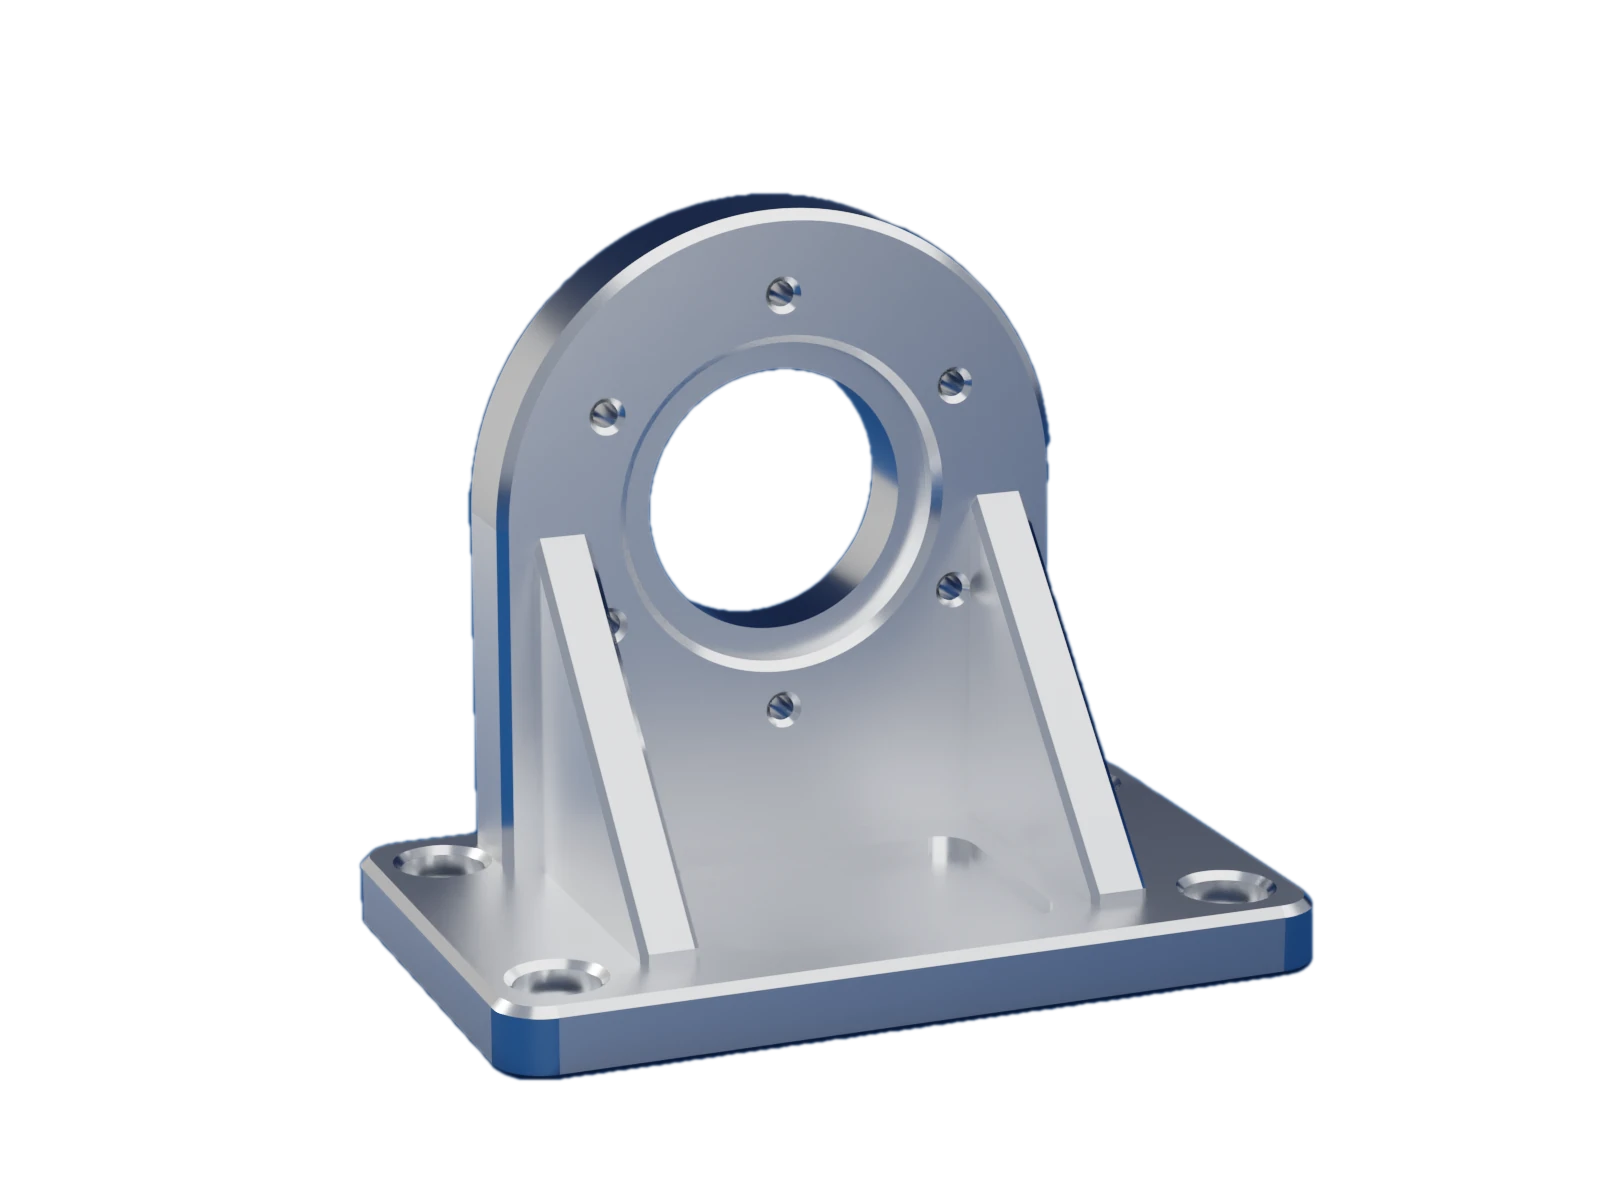
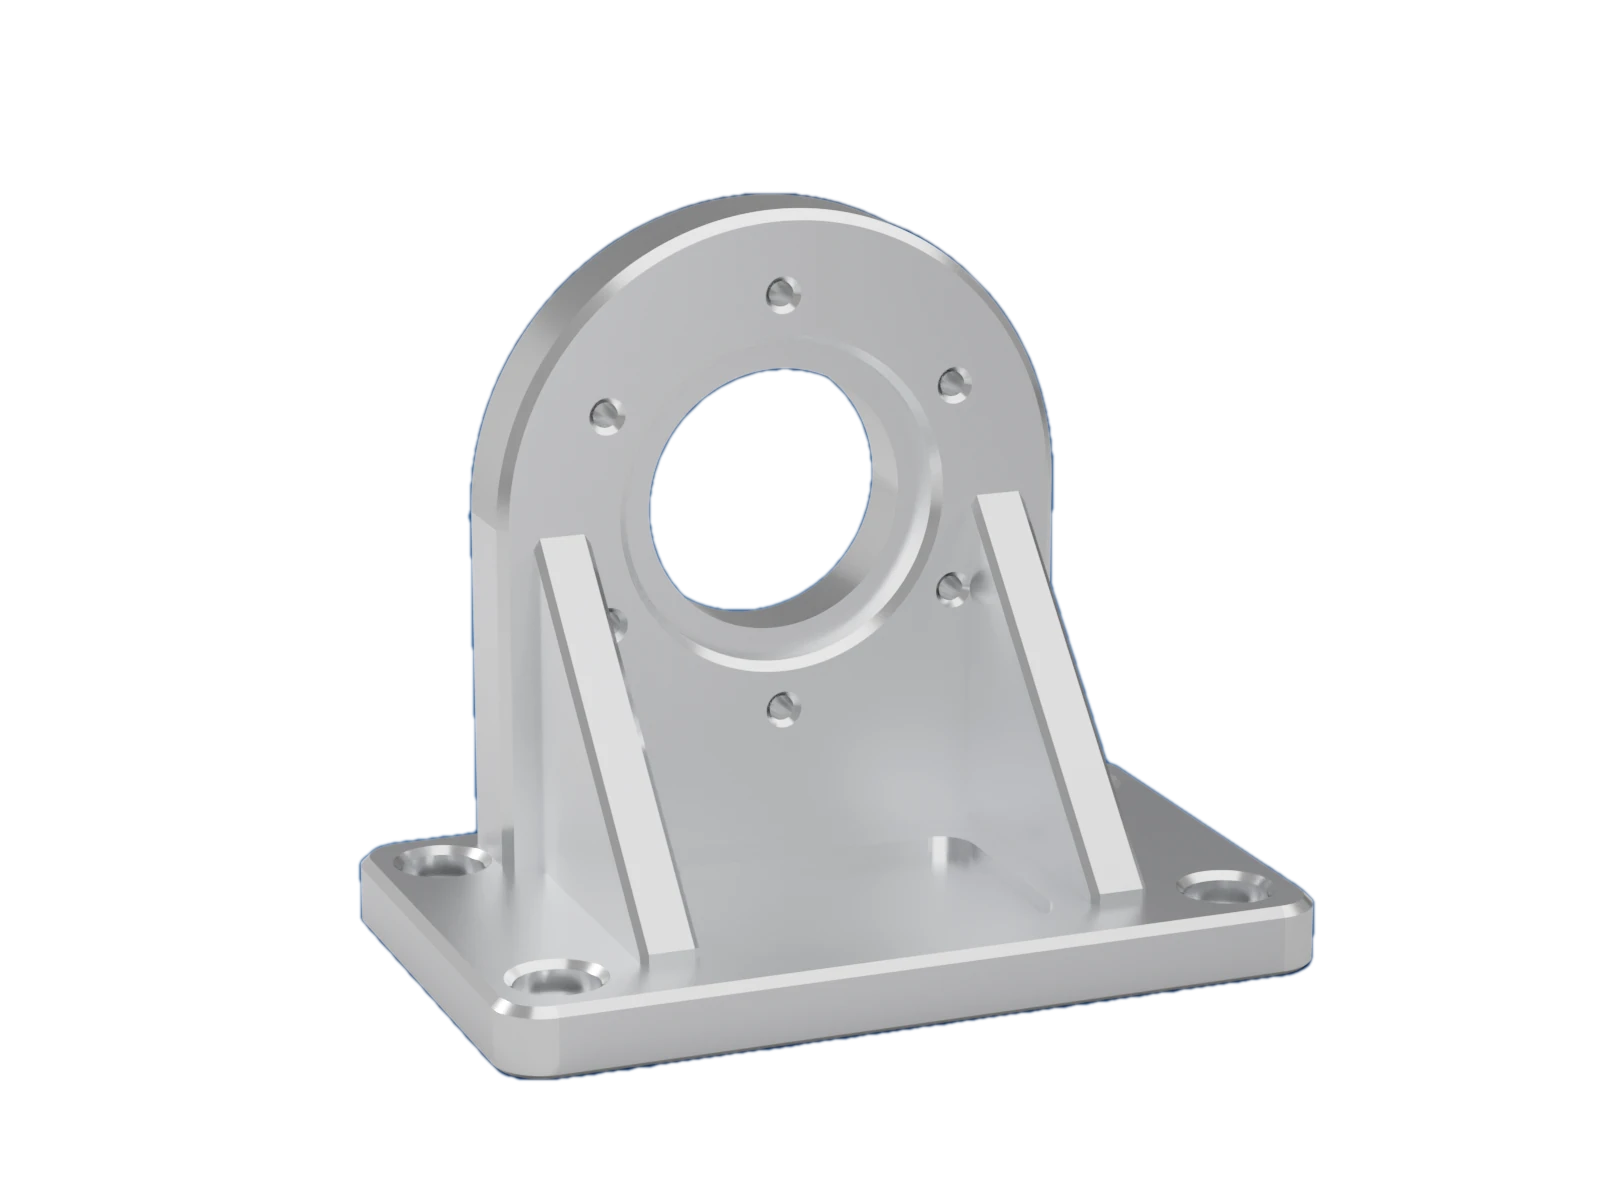
Four fixes: privacy graphic fits, centred slider arrows, cleaner bracket demo from the real 2.3.0 functions, Mac sends slides to PowerPoint

Changed region(s): [[0.2188, 0.1542, 0.8438, 0.925]]

diff --git a/src/styles/global.css b/src/styles/global.css
@@ -901,11 +901,24 @@ input[type='range'] {
   color: var(--muted);
 }
 .local-files {
+  box-sizing: border-box;
+  max-width: 100%;
+  padding: 0 14px;
   font-family: monospace;
-  font-size: 12px;
-  word-spacing: 10px;
+  font-size: 11px;
+  letter-spacing: 0.04em;
+  word-spacing: 2px;
+  text-align: center;
+  text-wrap: balance;
   margin-top: 14px;
   color: var(--blue);
+}
+@media (max-width: 380px) {
+  .local-files {
+    font-size: 10px;
+    letter-spacing: 0.02em;
+    word-spacing: 0;
+  }
 }
 .offline-note {
   position: absolute;
@@ -2453,8 +2466,17 @@ body:has(dialog[open]) {
   place-items: center;
   background: #fff;
   color: #1d1d1f;
-  font-size: 18px;
   box-shadow: 0 6px 20px #0004;
+}
+.cutout-handle svg {
+  display: block;
+  width: 22px;
+  height: 22px;
+  fill: none;
+  stroke: currentColor;
+  stroke-width: 2;
+  stroke-linecap: round;
+  stroke-linejoin: round;
 }
 .cutout-range {
   position: absolute;

diff --git a/design/renders/render.py b/design/renders/render.py
@@ -170,6 +170,23 @@ def world(strength, color=(1, 1, 1)):
     scene.world = w
 
 
+def backdrop_material(blue, neutral):
+    """Blue to the camera, neutral grey to everything else, so the metal never picks up blue."""
+    m = bpy.data.materials.new('backdrop')
+    m.use_nodes = True
+    nodes, links = m.node_tree.nodes, m.node_tree.links
+    nodes.clear()
+    a = nodes.new('ShaderNodeBsdfDiffuse'); a.inputs['Color'].default_value = (*blue, 1)
+    b = nodes.new('ShaderNodeBsdfDiffuse'); b.inputs['Color'].default_value = (*neutral, 1)
+    lp = nodes.new('ShaderNodeLightPath')
+    mix = nodes.new('ShaderNodeMixShader')
+    out = nodes.new('ShaderNodeOutputMaterial')
+    links.new(lp.outputs['Is Camera Ray'], mix.inputs['Fac'])
+    links.new(b.outputs[0], mix.inputs[1]); links.new(a.outputs[0], mix.inputs[2])
+    links.new(mix.outputs[0], out.inputs['Surface'])
+    return m
+
+
 def quads(name, rects, z, material):
     """Flat dark marks: scale lines and display segments. rects = (x0, y0, x1, y1) in mm."""
     verts, faces = [], []
@@ -226,9 +243,9 @@ if part == 'bracket':
     machined = principled('machined', (.86, .87, .88), metallic=1, rough=.2, grain=.05, grain_scale=1400)
     load(f'{folder}/bracket.npz', {('aluminium', 'flat'): blasted, ('aluminium', 'chamfer'): bright,
                                    ('aluminium', 'curved'): machined})
-    backdrop = principled('backdrop', (.014, .055, .15), rough=1, spec=0)
+    backdrop = backdrop_material((.02, .075, .21), (.5, .5, .5))
     sweep(backdrop)
-    world(.25, (.72, .8, 1))
+    world(.25, (.9, .9, .9))
     cam = bpy.data.cameras.new('cam')
     cam.lens = 105
     cam.sensor_width = 36

diff --git a/design/renders/README.md b/design/renders/README.md
@@ -16,3 +16,8 @@ blender -b -P design/renders/render.py -- caliper /tmp/parts design/renders/cali
 Then run `tools/demo/make_demo_assets.py` (`docs/CAPTURE.md`).
 
 Lighting notes, learned from what the app's GrabCut does: metal that mirrors the backdrop gets cut away with it, so the bracket has a small reflector card that only reflections see, and the sweep has no specular, so the card can't appear in the floor. The caliper is lit from four sides so that its contact shadows stay lighter than the trace threshold.
+
+Update 1 November 2026: the first bracket render had dark blue, mirrored-backdrop reflections on its edges and sides. The app's automatic removal kept them, but they looked like background, and Quick Selection missed the dark top-left rim. The backdrop is now blue only to the camera (a Light Path "Is Camera Ray" mix) and neutral grey to every other ray, so the metal reflects and receives neutral light and the picture still has a blue studio backdrop. Measured against a transparent-film render of the same scene (not published), the app's results are: automatic removal IoU 0.990 (0 % of the part missed, 1 % extra backdrop), Quick Selection IoU 0.997 (0.3 % missed).
+
+Possible future application work (not done; 2.3.0 is unchanged): remove_background and quick_selection depend on the colour distance between part and backdrop, so a dark, mirror-finish edge against a dark backdrop is the hard case. An edge-aware or model-based selection would be more robust on such parts.
+
